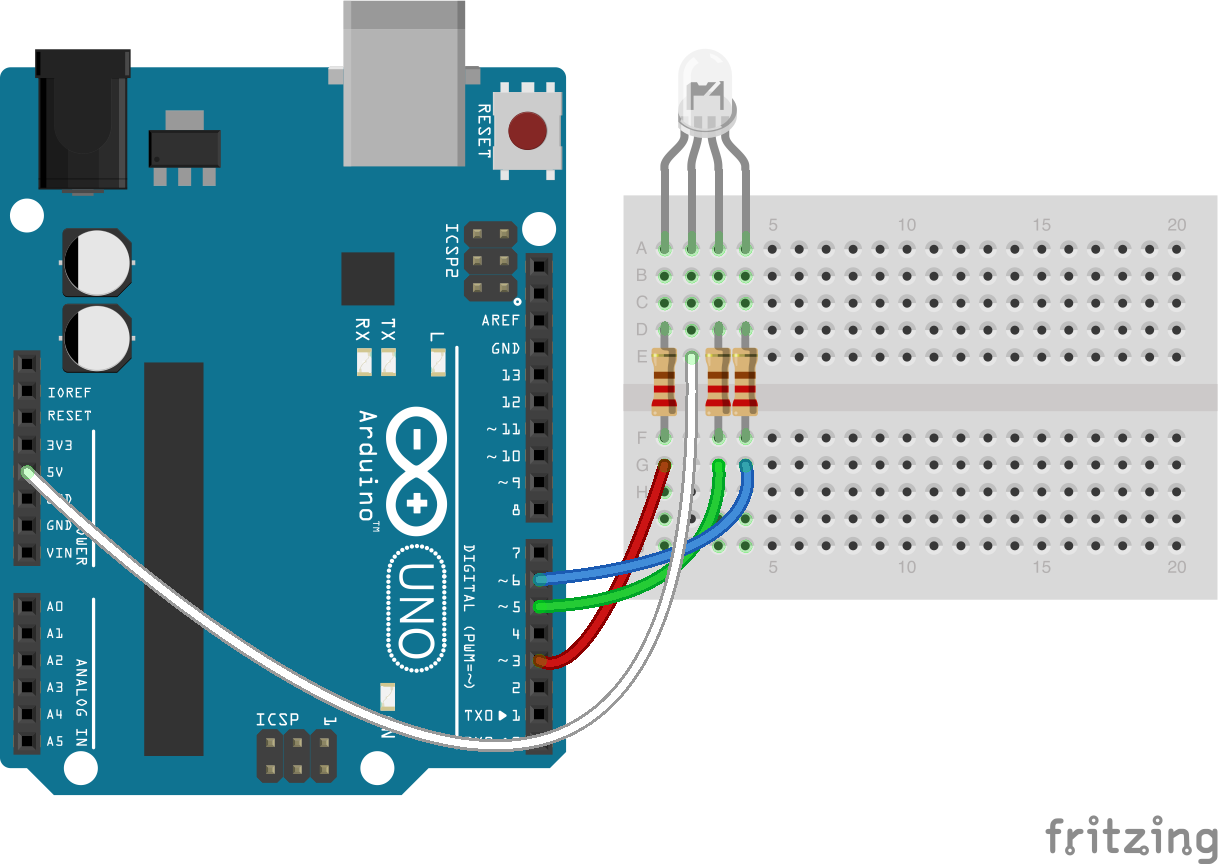
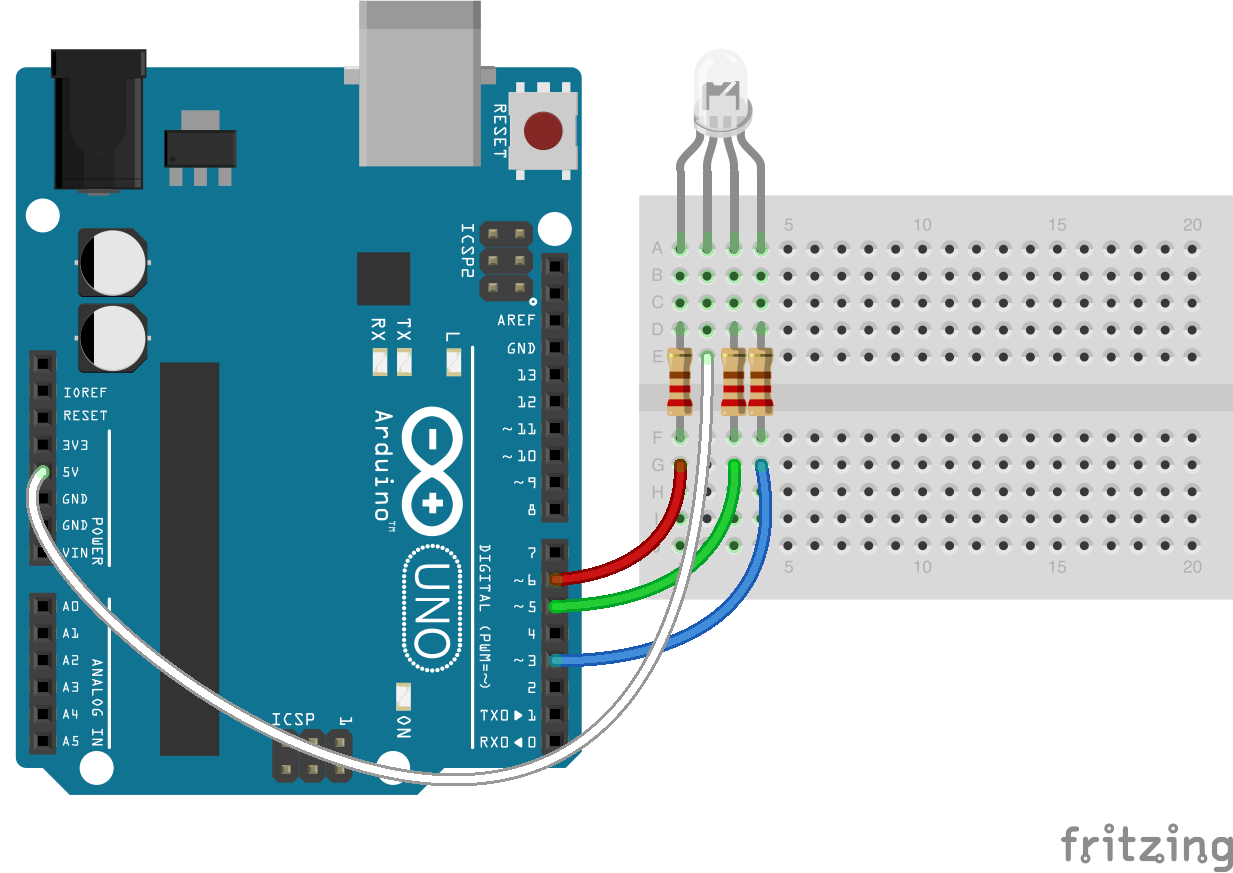
change rgb-anode eg to use same pins as rgb cathode

diff --git a/eg/led-rgb-anode.js b/eg/led-rgb-anode.js
@@ -4,9 +4,9 @@ var board = new five.Board();
 board.on("ready", function() {
   var anode = new five.Led.RGB({
     pins: {
-      red: 3,
+      red: 6,
       green: 5,
-      blue: 6
+      blue: 3
     },
     isAnode: true
   });

diff --git a/docs/led-rgb-anode.md b/docs/led-rgb-anode.md
@@ -39,9 +39,9 @@ var board = new five.Board();
 board.on("ready", function() {
   var anode = new five.Led.RGB({
     pins: {
-      red: 3,
+      red: 6,
       green: 5,
-      blue: 6
+      blue: 3
     },
     isAnode: true
   });
